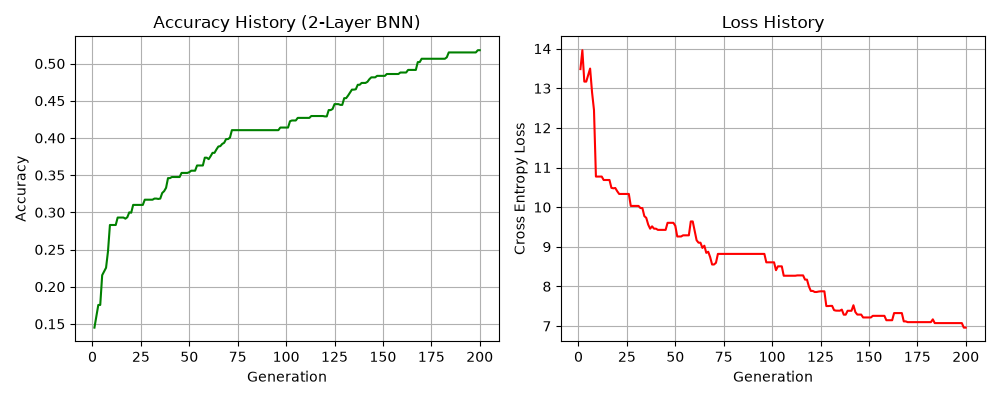
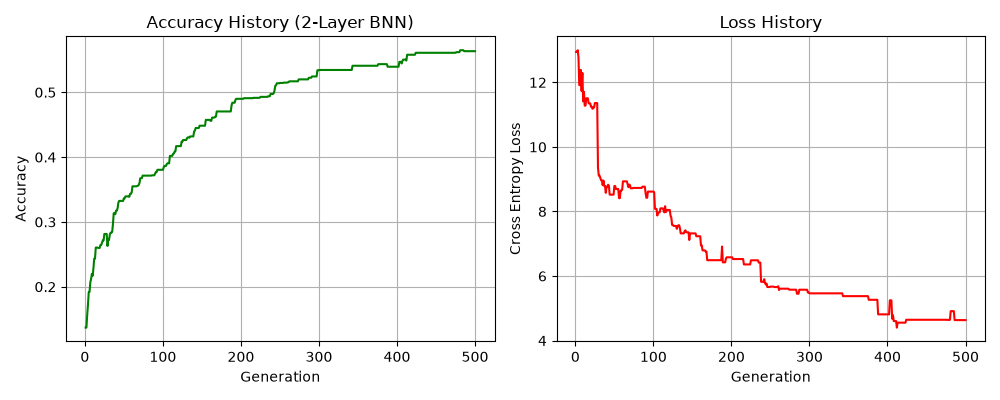
多様性を失わないように交叉の親をエリートじゃなくてランダムに選んだなかの最大スコアのやつにするように変更

diff --git a/script/binarize_ga.py b/script/binarize_ga.py
@@ -50,6 +50,26 @@ def evaluate(model, w, b, x, y):
 
     return acc, loss.item(),
 
+def tournament_select(combined_scores, k):
+    """
+    交叉するための親をランダムにk体選び，その中で最もスコアの高い個体のインデックスを返す関数（交叉の際，多様性が失われないように）
+
+    """
+    # 一度選んだ要素は無視してk個抽出するのでreplace=False
+    candidates = np.random.choice(len(combined_scores), k, replace=False)
+
+    # 抽出したインデックスの一つ目
+    best_idx = candidates[0]
+    # ↑のスコア
+    best_score = combined_scores[candidates[0]]
+
+    for i in candidates:
+        if combined_scores[i] > best_score:
+            best_score = combined_scores[i]
+            best_idx = i
+
+    return best_idx 
+
 def genetic_algorithm(model, x_eval, y_eval):
     """
     島モデルGA
@@ -57,7 +77,7 @@ def genetic_algorithm(model, x_eval, y_eval):
     """
     islands = 5
     models_per_island = 16
-    generation = 200
+    generation = 500
     migration_interval = 50
     mutation_strength = 0.1
     origin_mutation_strength = mutation_strength
@@ -75,6 +95,7 @@ def genetic_algorithm(model, x_eval, y_eval):
     )
     # 島の数 * 島アタありの総数 * バイアスの総数の乱数を生成
     island_b = torch.randn(islands, models_per_island, bias) * 0.1
+
 
     loss_history = []
     acc_history = []
@@ -113,8 +134,14 @@ def genetic_algorithm(model, x_eval, y_eval):
             for j in range(models_per_island):
                 # エリートは除外
                 if j != best_j:
+
+                    # 交叉の片親はランダムに選ぶ（毎回選びなおす）
+                    parent_idx = tournament_select(combined_scores, 3)
+                    parent_w = island_w[i][parent_idx]
+                    parent_b = island_b[i][parent_idx]
+
                     # 重み(２値)の交叉、２値だから遺伝子を混ぜずに50%の確率でエリートの遺伝子と入れ替え
-                    island_w[i][j] = torch.where(torch.rand(weight) < 0.5, island_best_w[i], island_w[i][j])
+                    island_w[i][j] = torch.where(torch.rand(weight) < 0.5, parent_w, island_w[i][j])
 
                     # 重み(２値)の突然変異↓のif文みたいなイメージ（実際は違う）
                     """if torch.rand(weight) < mutation_rate:
@@ -123,7 +150,7 @@ def genetic_algorithm(model, x_eval, y_eval):
                     island_w[i][j][w_mut_mask] *= -1.0
 
                     # バイアス(float)の交叉、エリートのと自分のを50％ずつ合体
-                    island_b[i][j] = (0.5 * island_best_b[i] + 0.5 * island_b[i][j])
+                    island_b[i][j] = (0.5 * parent_b + 0.5 * island_b[i][j])
                     # バイアス(float)の突然変異、
                     # True、Falseを.float()で1.0,-1.0にして突然変異を起こすか起こさないかのスイッチ
                     b_mut_mask = (torch.rand(bias) < mutation_rate).float()
@@ -204,7 +231,7 @@ def main():
 
     plt.tight_layout()
     plt.savefig("./output/binarize_ga.png")
-    print("グラフを result.png に保存した．")
+    print("グラフを ./output/result.png に保存した．")
 
 
 if __name__ == "__main__":
